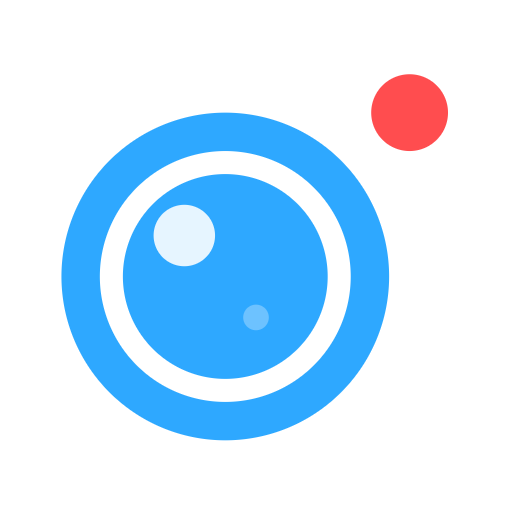
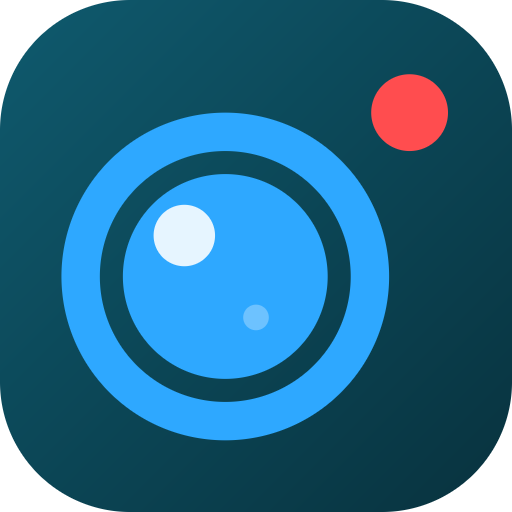
feat(fpk): v1.1.1 设置页重置码流程 + 深青圆角图标 + 修复 PATH/幽灵管理员
fpk（打包配置，gitignore 内同步维护）:
- 设置页移除「重置管理员密码」（对已有数据库从未生效），新增
  「生成重置码文件」radio：保存后等服务就绪调用 reset-request 生成，
  结果提示给出重置码文件路径与有效期
- 设置页新增当前用户名列表：config_init 打开时把 cyannvr list-users
  的结果回写进 wizard tips，config_callback 保存结果再给出一份
- 图标全套重做：深青渐变背景 + 与飞牛系统一致的 25.4% 圆弧角
  （按官方「图标」文档系统设置示例实测拟合：R0=57/224px，圆误差0.5px）
- 桌面入口图标更名 icon_* -> logo_*（ui/config 模板同步），打破
  桌面/浏览器对旧图标 URL 的缓存
- 生命周期脚本统一 export PATH，修复 fnOS 启动环境无 PATH 导致
  ffmpeg / python3 找不到（录像与 AI 识别此前从未工作过）
- build-fpk.sh：web/public 纳入 dist 陈旧检测，public 图标变更会触发前端重建

server:
- seedAdmin 仅在空库时初始化：忽略残留的 NVR_ADMIN_USER，不再每次启动
  撞固定主键报 UNIQUE constraint failed: users.id（幽灵 cnvradmin 问题根因）
- 重置密码「用户不存在」提示补充用户名查看指引
- CoreVersion 1.1.0 -> 1.1.1，changelog 更新

web:
- PWA 图标 192/512/maskable 随生成器输出深青圆角版

diff --git a/server/main.go b/server/main.go
@@ -149,6 +149,16 @@ func seedAdmin(cfg *config.Config, st *store.Store) {
 	if existing != nil {
 		return
 	}
+	// 数据库非空时完全跳过初始化：NVR_ADMIN_USER / NVR_ADMIN_PASSWORD 只在
+	// 首次建库时生效。否则向导里残留的旧用户名（例如自定义了 cnvradmin 但
+	// 库里实际是 admin）会每次启动都尝试插入，撞上固定主键 u_admin，
+	// 日志里永远刷 UNIQUE constraint failed: users.id。
+	all, lerr := st.ListUsers()
+	if lerr == nil && len(all) > 0 {
+		log.Printf("seed admin: 数据库已有 %d 个用户，忽略 NVR_ADMIN_USER=%q（改名/改密请用 cyannvr reset-password 或网页「忘记密码」）",
+			len(all), name)
+		return
+	}
 	pw := os.Getenv("NVR_ADMIN_PASSWORD")
 	if pw == "" {
 		pw = "admin123"

diff --git a/server/api/password_reset.go b/server/api/password_reset.go
@@ -405,7 +405,7 @@ func (s *Server) pickResetUser(name string) (*models.User, error) {
 			return nil, fmt.Errorf("查询用户失败")
 		}
 		if u == nil {
-			return nil, fmt.Errorf("用户不存在：%s", name)
+			return nil, fmt.Errorf("用户不存在：%s（当前用户名可在应用设置页或 cyannvr list-users 查看）", name)
 		}
 		return u, nil
 	}

diff --git a/server/version.go b/server/version.go
@@ -11,4 +11,4 @@ package main
 // 用于「代码没变但需要重新出包」的场景（改图标、改向导、改生命周期脚本等）。
 //
 // 修改本常量后，fpk 打包脚本会自动把修订号重置为 1。
-const CoreVersion = "1.1.0"
+const CoreVersion = "1.1.1"
